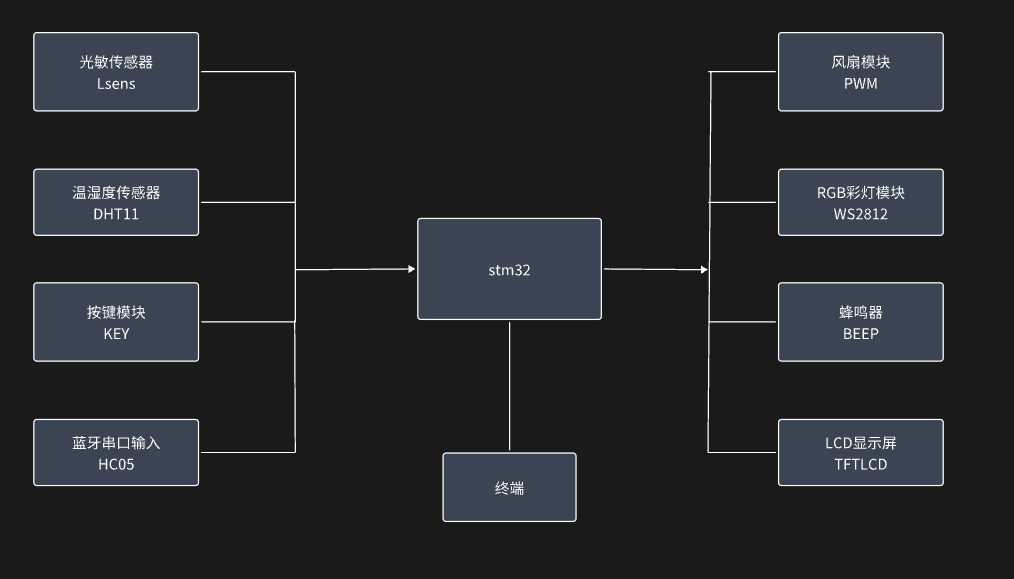
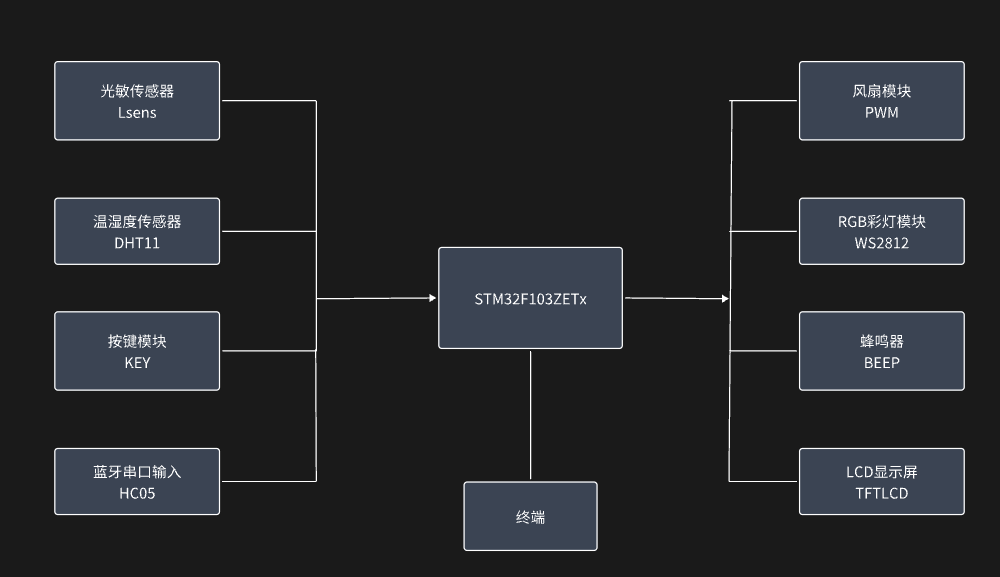
Readme修改2

diff --git a/README.md b/README.md
@@ -6,7 +6,7 @@
 
 ---
 
-## 🌟 项目亮点
+## 项目亮点
 
 - **多传感器融合感知**：DHT11 温湿度传感器 + 光敏传感器，实时获取环境数据；
 - **自动控制逻辑**：支持风扇、照明、蜂鸣器的联动自动控制；
@@ -20,21 +20,23 @@
 
 ## 🛠 使用硬件
 
-| 模块          | 功能               |
-| ------------- | ------------------ |
-| STM32F103ZETx | 主控单片机         |
-| DHT11         | 温湿度采集         |
-| 光敏模块      | 环境光照强度检测   |
-| WS2812        | 彩色点阵照明与装饰 |
-| HC05          | 蓝牙通信模块       |
-| LCD 屏        | 图形化人机界面     |
-| 按键模块      | 页面切换与控制输入 |
-| 蜂鸣器        | 告警输出           |
-| 风扇（PWM）   | 温控风速调节       |
+| 模块名称               | 功能描述                    |
+| ---------------------- | --------------------------- |
+| STM32F103ZETx          | 系统主控单片机              |
+| 温湿度模块（DHT11）    | 实时采集环境温度与湿度      |
+| 光敏模块（Lsens）      | 检测环境光照强度            |
+| RGB 彩灯模块（WS2812） | 彩色点阵照明与图案装饰显示  |
+| 蓝牙模块（HC05）       | 蓝牙通信，实现远程控制      |
+| LCD 屏（TFTLCD）       | 图形化界面，显示状态与数据  |
+| 按键模块（KEY）        | 控制页面切换与模式选择      |
+| 蜂鸣器（BEEP）         | 系统告警输出与音乐播放功能  |
+| 风扇（PWM）            | 温控风速调节，自动/手动控制 |
+
+
 
 ---
 
-## ⚙ 系统功能结构
+## 系统功能结构
 
 ![系统结构图](img/structure.png)
 
@@ -42,7 +44,7 @@
 
 ---
 
-## 🎮 支持的蓝牙命令（通过串口发送）
+## 支持的蓝牙命令（通过串口发送）
 
 | 指令            | 功能                   |
 | --------------- | ---------------------- |
@@ -55,7 +57,7 @@
 
 ---
 
-## 📱 页面展示说明（LCD）
+## 页面展示说明（LCD）
 
 1. **PAGE_ROLE_STATUS**  
    显示系统状态（颜色标识）、蓝牙角色、连接状态；
@@ -68,7 +70,7 @@
 
 ---
 
-## ⌨ 按键功能
+## 按键功能
 
 | 按键     | 功能             |
 | -------- | ---------------- |
@@ -78,7 +80,42 @@
 
 ---
 
-## 📦 文件结构说明
+## 项目结构说明
+
+
+
+├── README.md                         # 项目说明文档
+├── main.c                            # 主程序入口（系统初始化与主循环）
+├── APP/                              # 功能模块目录
+│   ├── pet_care/                     # 宠物照护系统核心逻辑（自动控制、页面切换等）
+│   ├── dht11/                        # 温湿度传感器驱动
+│   ├── lsens/                        # 光敏传感器驱动
+│   ├── ws2812/                       # RGB 彩灯控制，含爱心绘图函数
+│   ├── beep/                         # 蜂鸣器控制模块
+│   ├── pwm/                          # PWM 驱动模块，用于风扇调速
+│   ├── hc05/                         # 蓝牙模块 HC05 初始化与角色识别
+│   ├── usart3/                       # 串口3（蓝牙通信）接收与指令处理
+│   ├── key/                          # 按键驱动模块，支持多按键识别
+│   ├── tftlcd/                       # TFT LCD 显示驱动与图片资源
+│   ├── led/                          # LED 灯控制模块（状态指示灯）
+│   └── time/, touch/, iic/, 24Cxx/  # 其他预留或未使用模块
+│
+├── Public/                           # 公共函数模块（时钟、中断、串口等）
+│   ├── system.c/h                    # 系统初始化相关配置
+│   ├── SysTick.c/h                   # 毫秒延时函数封装
+│   └── usart.c/h                     
+│
+├── Libraries/                        # STM32 标准库
+│   ├── CMSIS/                        # ARM Cortex-M3 核心支持库
+│   └── STM32F10x_StdPeriph_Driver/  # STM32外设驱动库（ADC/GPIO/TIM等）
+│
+├── img/                              # 项目配套图片资源（如系统结构图）
+│   └── structure.png
+│
+├── Template.uvprojx 等              # Keil 工程配置文件
+└── DebugConfig/, Obj/, User/        # 自动生成的调试/中间文件目录
+
+
 
 | 文件/文件夹    | 说明                         |
 | -------------- | ---------------------------- |
@@ -94,6 +131,6 @@
 
 ---
 
-## 🔚 项目总结
+## 项目总结
 
 本系统实现了软硬件高度集成与良好的交互体验，适合用于物联网智能设备嵌入式开发入门、课程设计、嵌入式大作业展示等应用场景。
